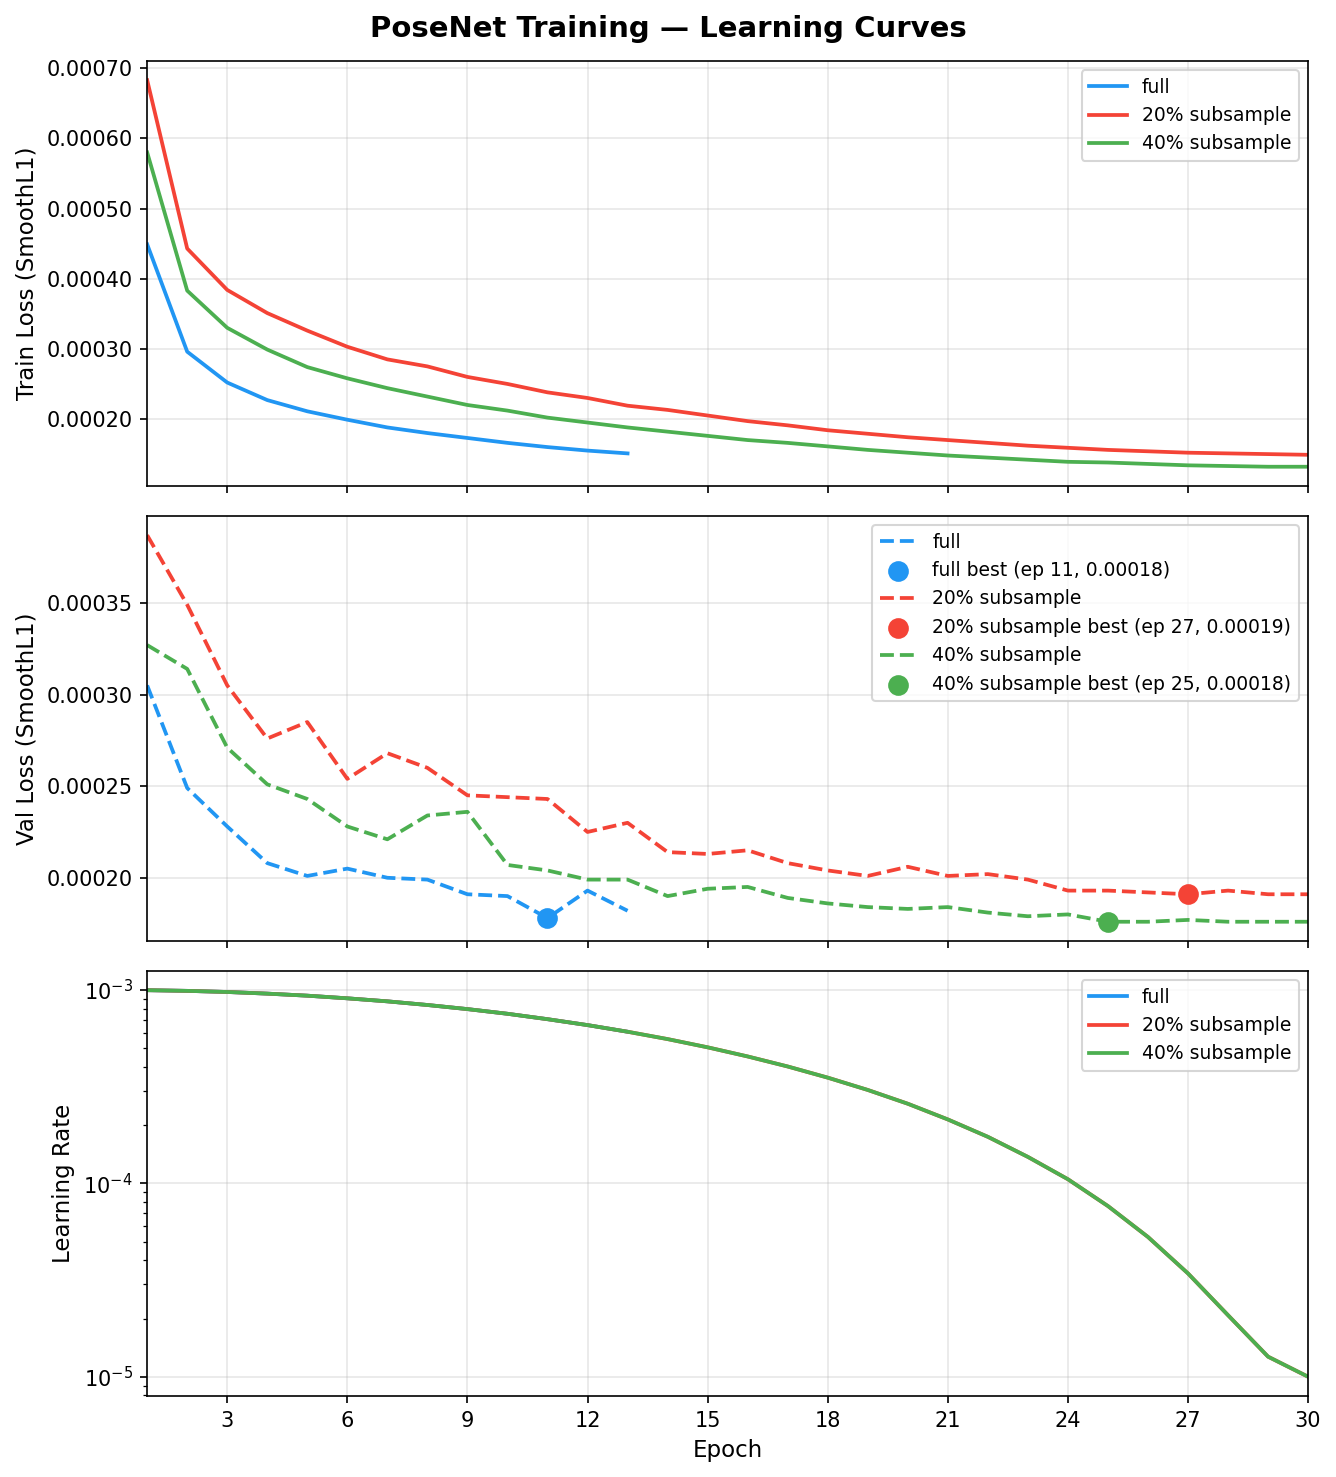
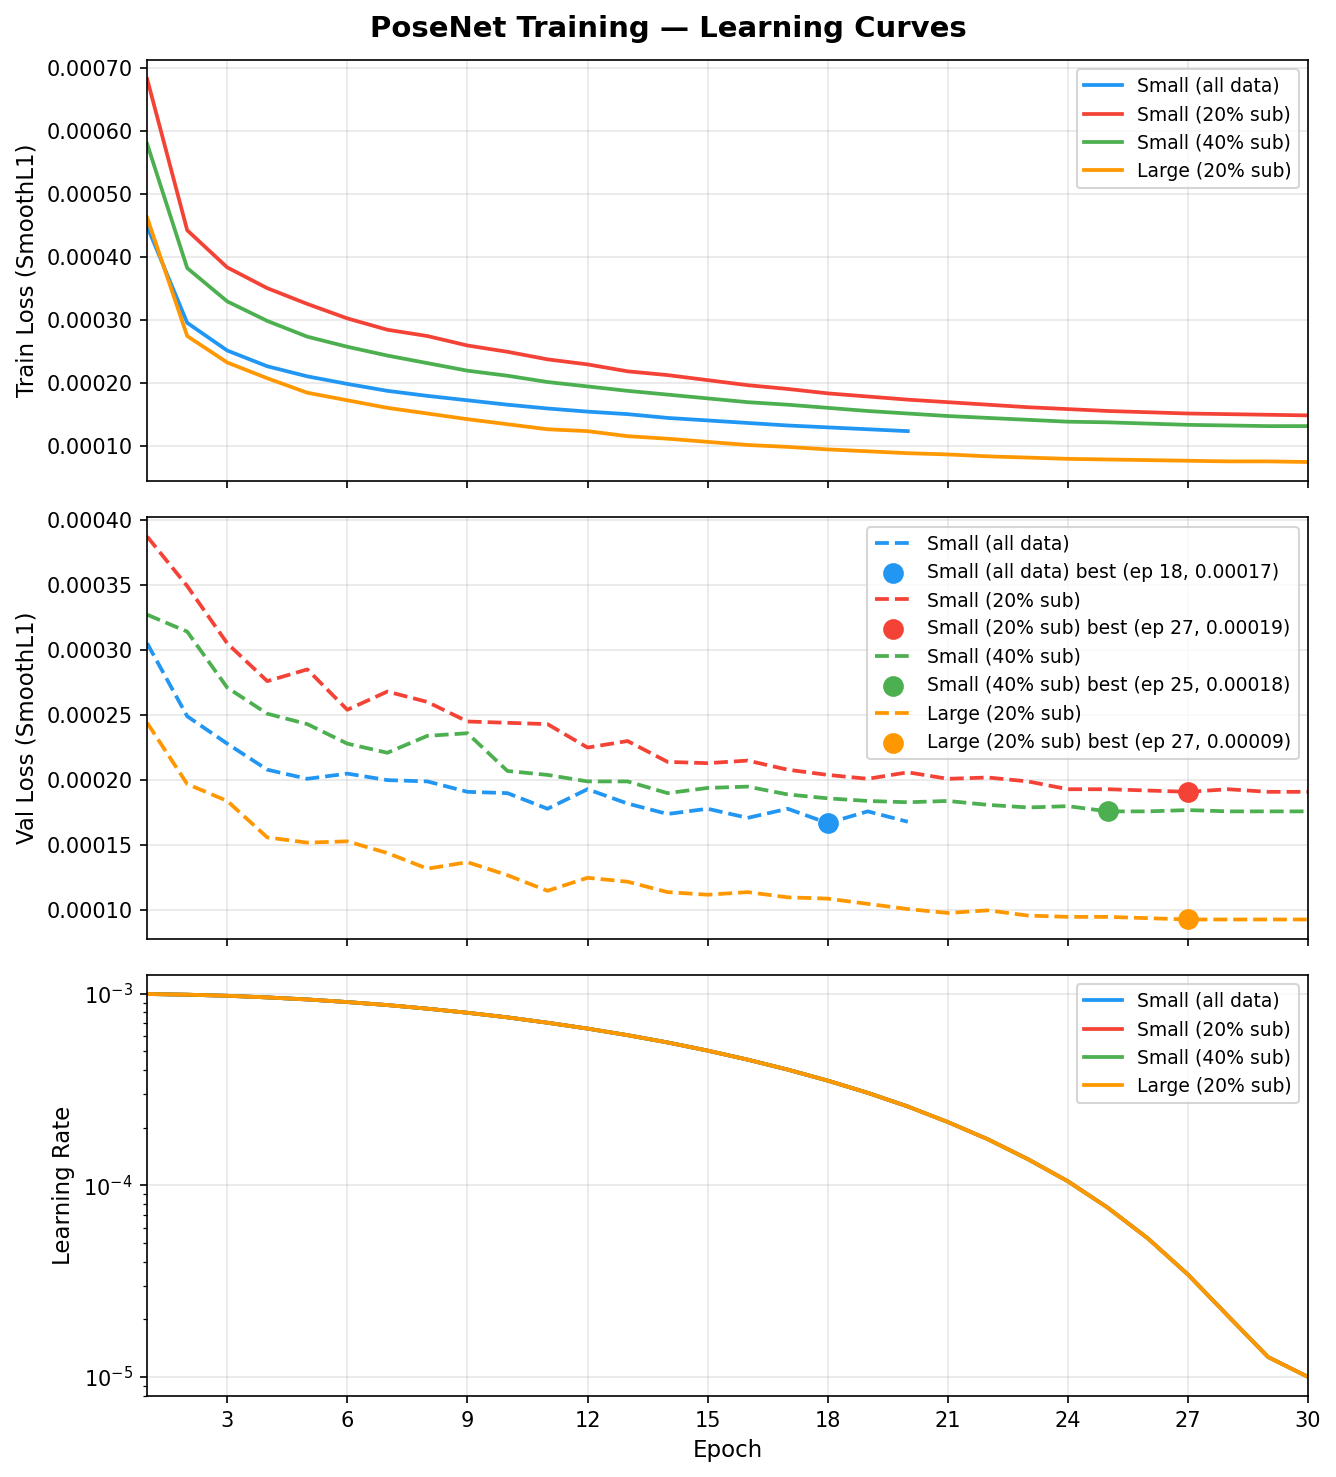
figures for report

diff --git a/train/plot_learning_curves.py b/train/plot_learning_curves.py
@@ -7,11 +7,19 @@ Usage
   # Single run:
   python train/plot_learning_curves.py posenet_sub_2196619.out
 
-  # Multiple runs overlaid (add --label for legend names):
+  # Multiple runs overlaid (add --labels for legend names):
   python train/plot_learning_curves.py \\
-      posenet_sub_2196619.out --label "20% subsample" \\
-      posenet_sub_2214139.out --label "40% subsample" \\
+      posenet_sub_2196619.out --labels "20% subsample" \\
+      posenet_sub_2214139.out --labels "40% subsample" \\
       --out figures/learning_curves.png
+
+  # Merge resumed jobs (same label → merged) and cap a run at epoch 20:
+  python train/plot_learning_curves.py \\
+      posenet_train_2195259.out posenet_train_2219828.out \\
+      posenet_sub_2239613.out \\
+      --labels "Small (all data)" "Small (all data)" "Large (20% sub, MNetV3-L)" \\
+      --max-epoch 20 \\
+      --out figures/small_vs_large.png
 
 Output
 ------
@@ -75,6 +83,17 @@ def merge_runs(run_dicts: list[dict]) -> dict:
     return {"epochs": epochs, "train": train, "val": val, "lr": lr}
 
 
+def clip_to_max_epoch(data: dict, max_epoch: int) -> dict:
+    """Drop any epochs beyond *max_epoch* (inclusive)."""
+    mask = [e <= max_epoch for e in data["epochs"]]
+    return {
+        "epochs": [v for v, m in zip(data["epochs"], mask) if m],
+        "train":  [v for v, m in zip(data["train"],  mask) if m],
+        "val":    [v for v, m in zip(data["val"],     mask) if m],
+        "lr":     [v for v, m in zip(data["lr"],      mask) if m],
+    }
+
+
 # ── CLI ───────────────────────────────────────────────────────────────────────
 
 def parse_args():
@@ -114,6 +133,13 @@ def parse_args():
         default=150,
         help="Output DPI (default: 150)",
     )
+    p.add_argument(
+        "--max-epoch",
+        type=int,
+        default=None,
+        metavar="N",
+        help="Discard epochs beyond N (applied per run after merging)",
+    )
     return p.parse_args()
 
 
@@ -150,6 +176,8 @@ def main():
             continue
 
         merged = merge_runs(parsed) if len(parsed) > 1 else parsed[0]
+        if args.max_epoch is not None:
+            merged = clip_to_max_epoch(merged, args.max_epoch)
         runs.append((label, merged))
         if len(parsed) > 1:
             print(f"  {label}: merged {len(paths)} files -> {len(merged['epochs'])} epochs")